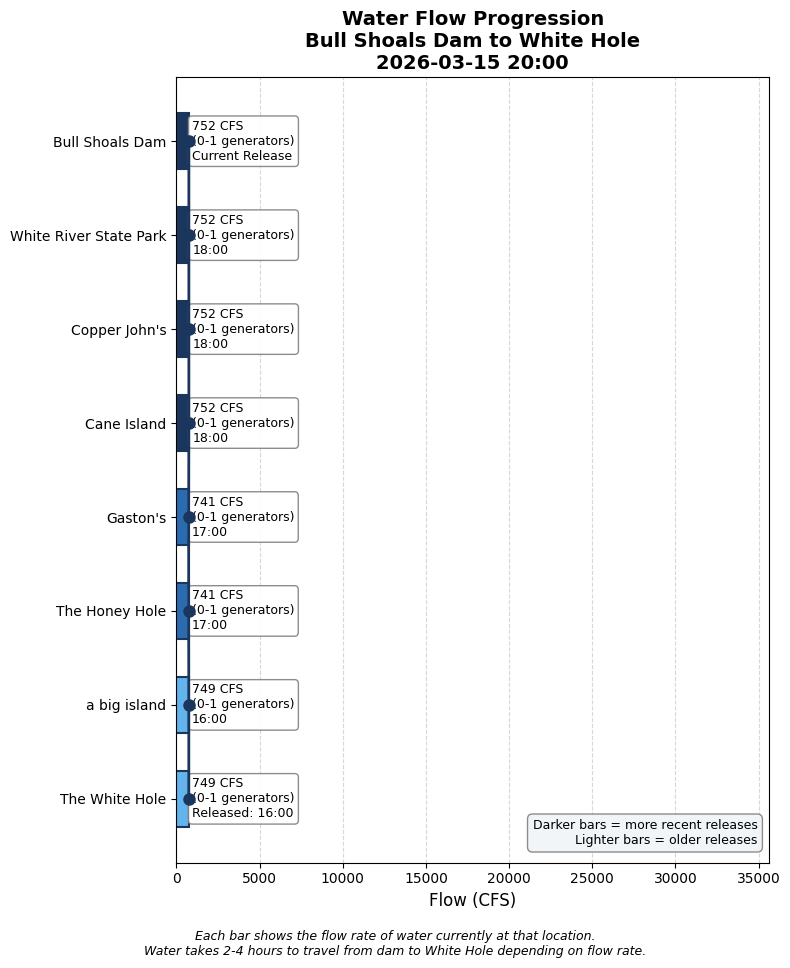
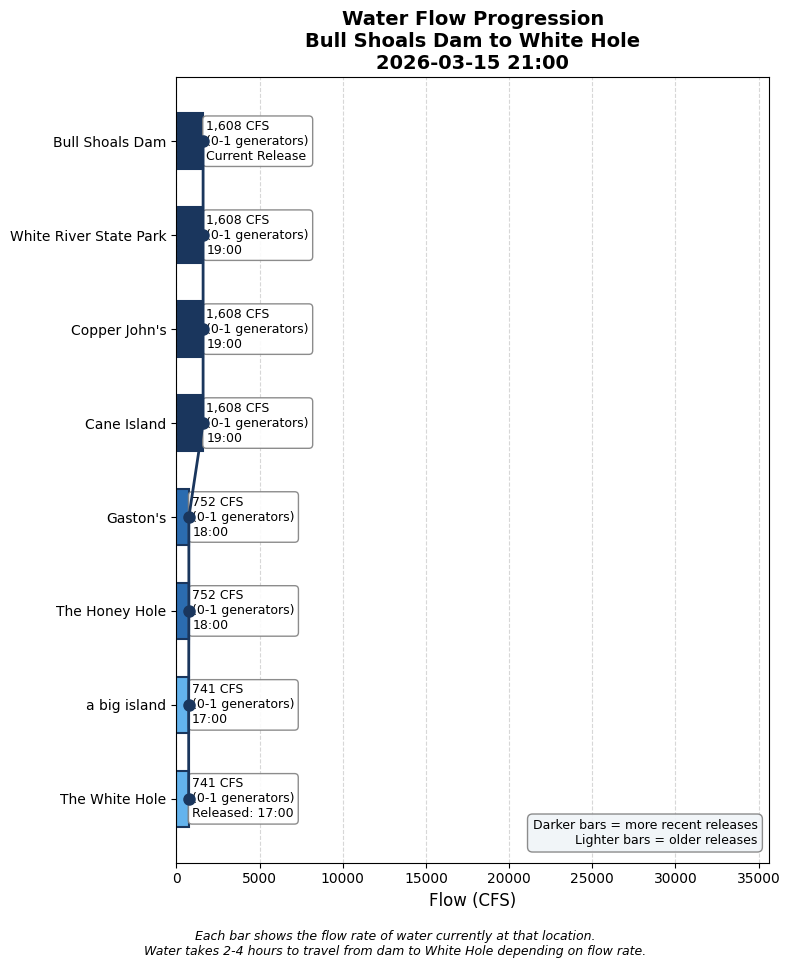
Update water conditions 2026-03-15 21:00

diff --git a/white_hole_conditions.html b/white_hole_conditions.html
@@ -3,7 +3,7 @@
 <head>
     <meta charset="UTF-8">
     <meta name="viewport" content="width=device-width, initial-scale=1.0">
-    <title>White Hole Conditions - 2026-03-15 20:00</title>
+    <title>White Hole Conditions - 2026-03-15 21:00</title>
     <style>
         body {
             font-family: -apple-system, BlinkMacSystemFont, 'Segoe UI', Roboto, sans-serif;
@@ -148,18 +148,18 @@
 </head>
 <body>
     <h1>White Hole Current Conditions</h1>
-    <p class="subtitle">Sunday, March 15, 2026 at 08:00 PM</p>
+    <p class="subtitle">Sunday, March 15, 2026 at 09:00 PM</p>
 
     <!-- HEADLINE BANNER -->
     <div class="headline-banner">
         <div class="main-status">✅ GOOD WADING — Conditions favorable</div>
-        <div class="forecast-status">➡ STABLE CONDITIONS expected</div>
+        <div class="forecast-status">⏱ RISING WATER arriving in ~43 minutes</div>
     </div>
 
     <!-- CURRENT CONDITIONS -->
     <div class="current-conditions">
         <h3>Current Conditions at White Hole</h3>
-        <div class="flow-display">749 CFS</div>
+        <div class="flow-display">741 CFS</div>
         <div class="generator-display">Equivalent to 0-1 generators</div>
         <div class="condition-pills">
             <span class="pill wading">Excellent Wading</span>
@@ -186,26 +186,26 @@
                 <tbody>
                     
                 <tr style="background-color: #ebf8ff;">
-                    <td style="padding: 10px; font-weight: bold;">18:00</td>
-                    <td style="padding: 10px;">752 CFS<br><small style="color: #666;">(0-1 generators)</small></td>
-                    <td style="padding: 10px;"><span style="color: #2b6cb0;">→ Arrives ~21:44 (in 103 min)</span></td>
+                    <td style="padding: 10px; font-weight: bold;">19:00</td>
+                    <td style="padding: 10px;">1,608 CFS<br><small style="color: #666;">(0-1 generators)</small></td>
+                    <td style="padding: 10px;"><span style="color: #2b6cb0;">→ Arrives ~22:44 (in 103 min)</span></td>
                 </tr>
             
                 <tr style="background-color: #ebf8ff;">
-                    <td style="padding: 10px; font-weight: bold;">17:00</td>
-                    <td style="padding: 10px;">741 CFS<br><small style="color: #666;">(0-1 generators)</small></td>
-                    <td style="padding: 10px;"><span style="color: #2b6cb0;">→ Arrives ~20:44 (in 43 min)</span></td>
+                    <td style="padding: 10px; font-weight: bold;">18:00</td>
+                    <td style="padding: 10px;">752 CFS<br><small style="color: #666;">(0-1 generators)</small></td>
+                    <td style="padding: 10px;"><span style="color: #2b6cb0;">→ Arrives ~21:44 (in 43 min)</span></td>
                 </tr>
             
                 <tr style="background-color: #e6fffa;">
-                    <td style="padding: 10px; font-weight: bold;">16:00</td>
-                    <td style="padding: 10px;">749 CFS<br><small style="color: #666;">(0-1 generators)</small></td>
+                    <td style="padding: 10px; font-weight: bold;">17:00</td>
+                    <td style="padding: 10px;">741 CFS<br><small style="color: #666;">(0-1 generators)</small></td>
                     <td style="padding: 10px;"><span style="color: #319795; font-weight: bold;">← AT WHITE HOLE NOW</span></td>
                 </tr>
             
                 <tr style="">
-                    <td style="padding: 10px; font-weight: bold;">13:00</td>
-                    <td style="padding: 10px;">778 CFS<br><small style="color: #666;">(0-1 generators)</small></td>
+                    <td style="padding: 10px; font-weight: bold;">14:00</td>
+                    <td style="padding: 10px;">775 CFS<br><small style="color: #666;">(0-1 generators)</small></td>
                     <td style="padding: 10px;"><span style="color: #718096;">passed</span></td>
                 </tr>
             
@@ -230,9 +230,9 @@
         </summary>
         <div style="padding: 15px;">
             <ul>
-                <li>Latest dam reading: 752 CFS at 2026-03-15 18:00</li>
+                <li>Latest dam reading: 1,608 CFS at 2026-03-15 19:00</li>
                 <li>Travel time to White Hole: 3.7 hours at current flow</li>
-                <li>White Hole conditions based on dam reading from: 2026-03-15 16:00</li>
+                <li>White Hole conditions based on dam reading from: 2026-03-15 17:00</li>
             </ul>
         </div>
     </details>
@@ -254,6 +254,13 @@
                     </thead>
                     <tbody>
                         
+                <tr style="border-bottom: 1px solid #eee;">
+                    <td style="padding: 8px;">2026-03-15 19:00</td>
+                    <td style="padding: 8px; text-align: right;">1608</td>
+                    <td style="padding: 8px; text-align: right;">0.5</td>
+                    <td style="padding: 8px; text-align: right;">3.7</td>
+                </tr>
+                
                 <tr style="border-bottom: 1px solid #eee;">
                     <td style="padding: 8px;">2026-03-15 18:00</td>
                     <td style="padding: 8px; text-align: right;">752</td>
@@ -317,13 +324,6 @@
                     <td style="padding: 8px; text-align: right;">3.7</td>
                 </tr>
                 
-                <tr style="border-bottom: 1px solid #eee;">
-                    <td style="padding: 8px;">2026-03-15 09:00</td>
-                    <td style="padding: 8px; text-align: right;">743</td>
-                    <td style="padding: 8px; text-align: right;">0.2</td>
-                    <td style="padding: 8px; text-align: right;">3.7</td>
-                </tr>
-                
                     </tbody>
                 </table>
             </div>
@@ -331,7 +331,7 @@
         
 
     <div class="timestamp">
-        Data retrieved and processed on 2026-03-15 20:00:07
+        Data retrieved and processed on 2026-03-15 21:00:08
     </div>
 </body>
 </html>
